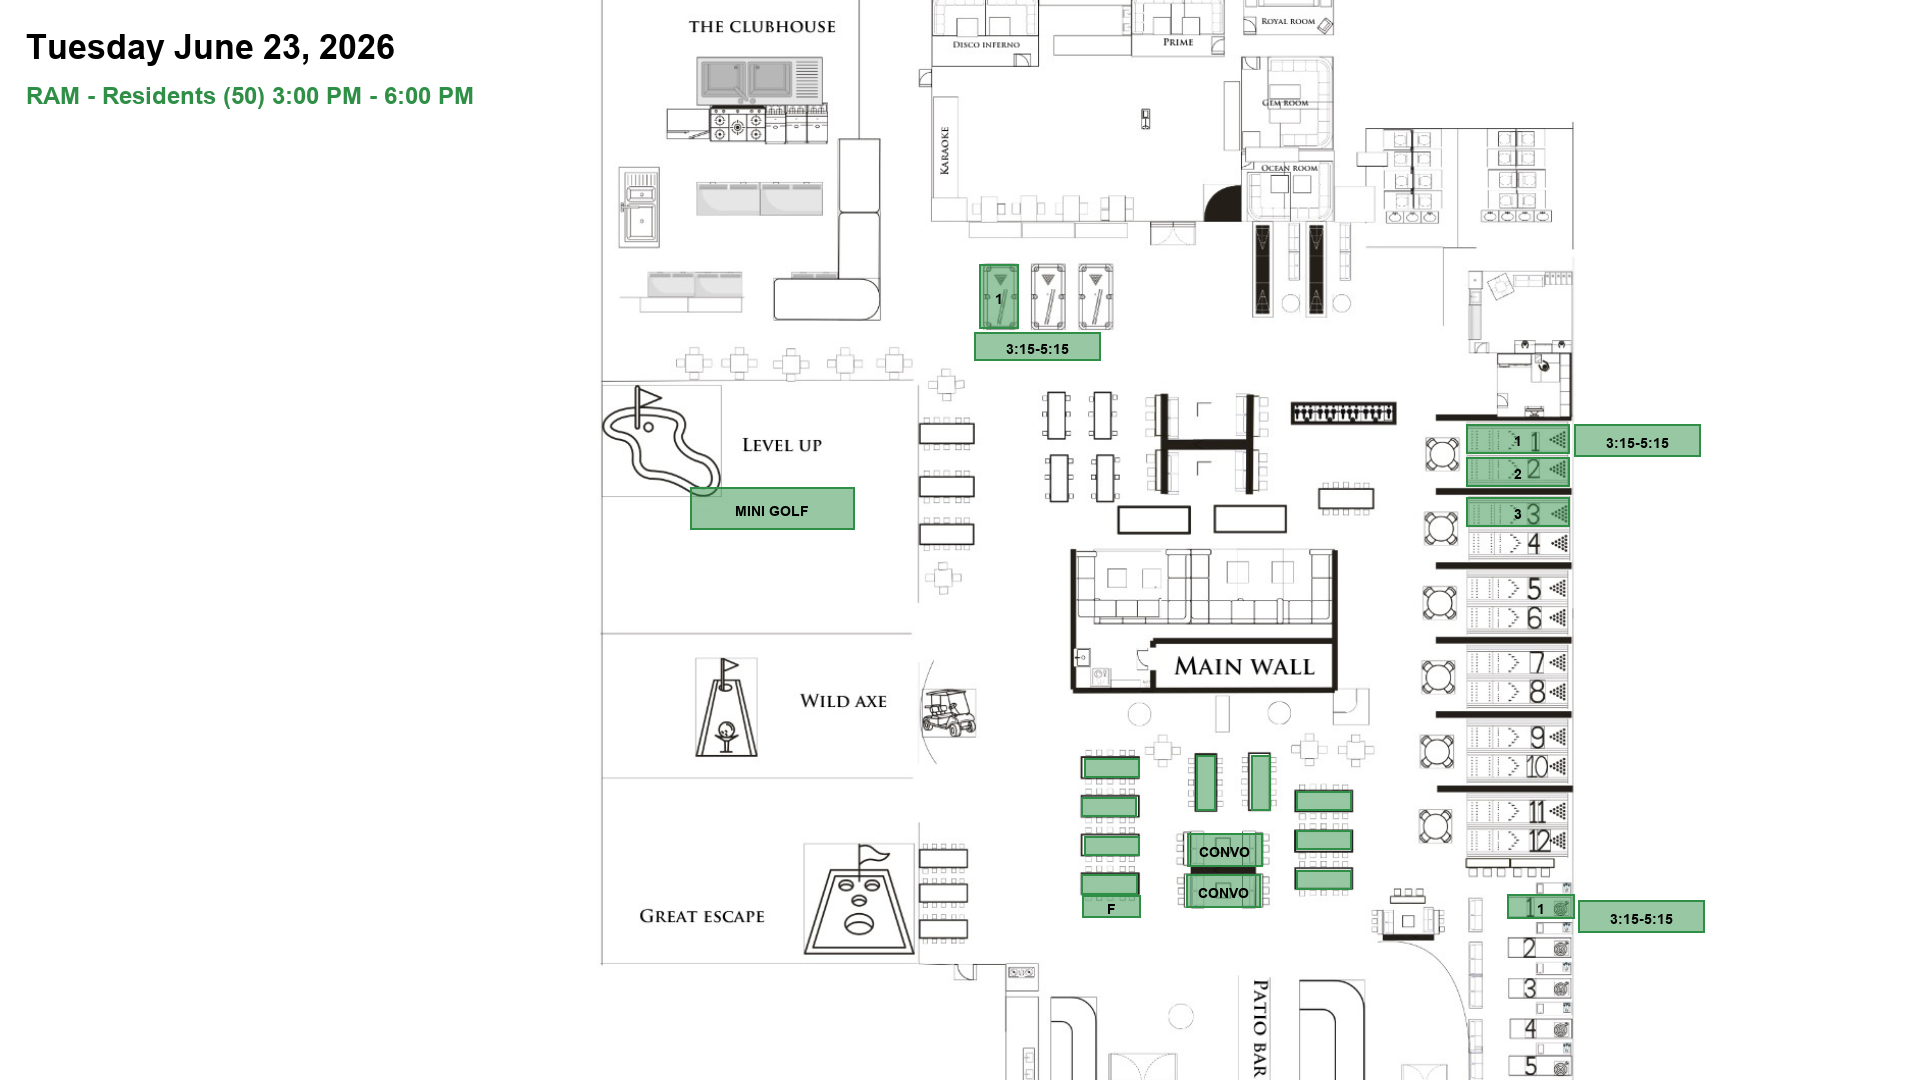
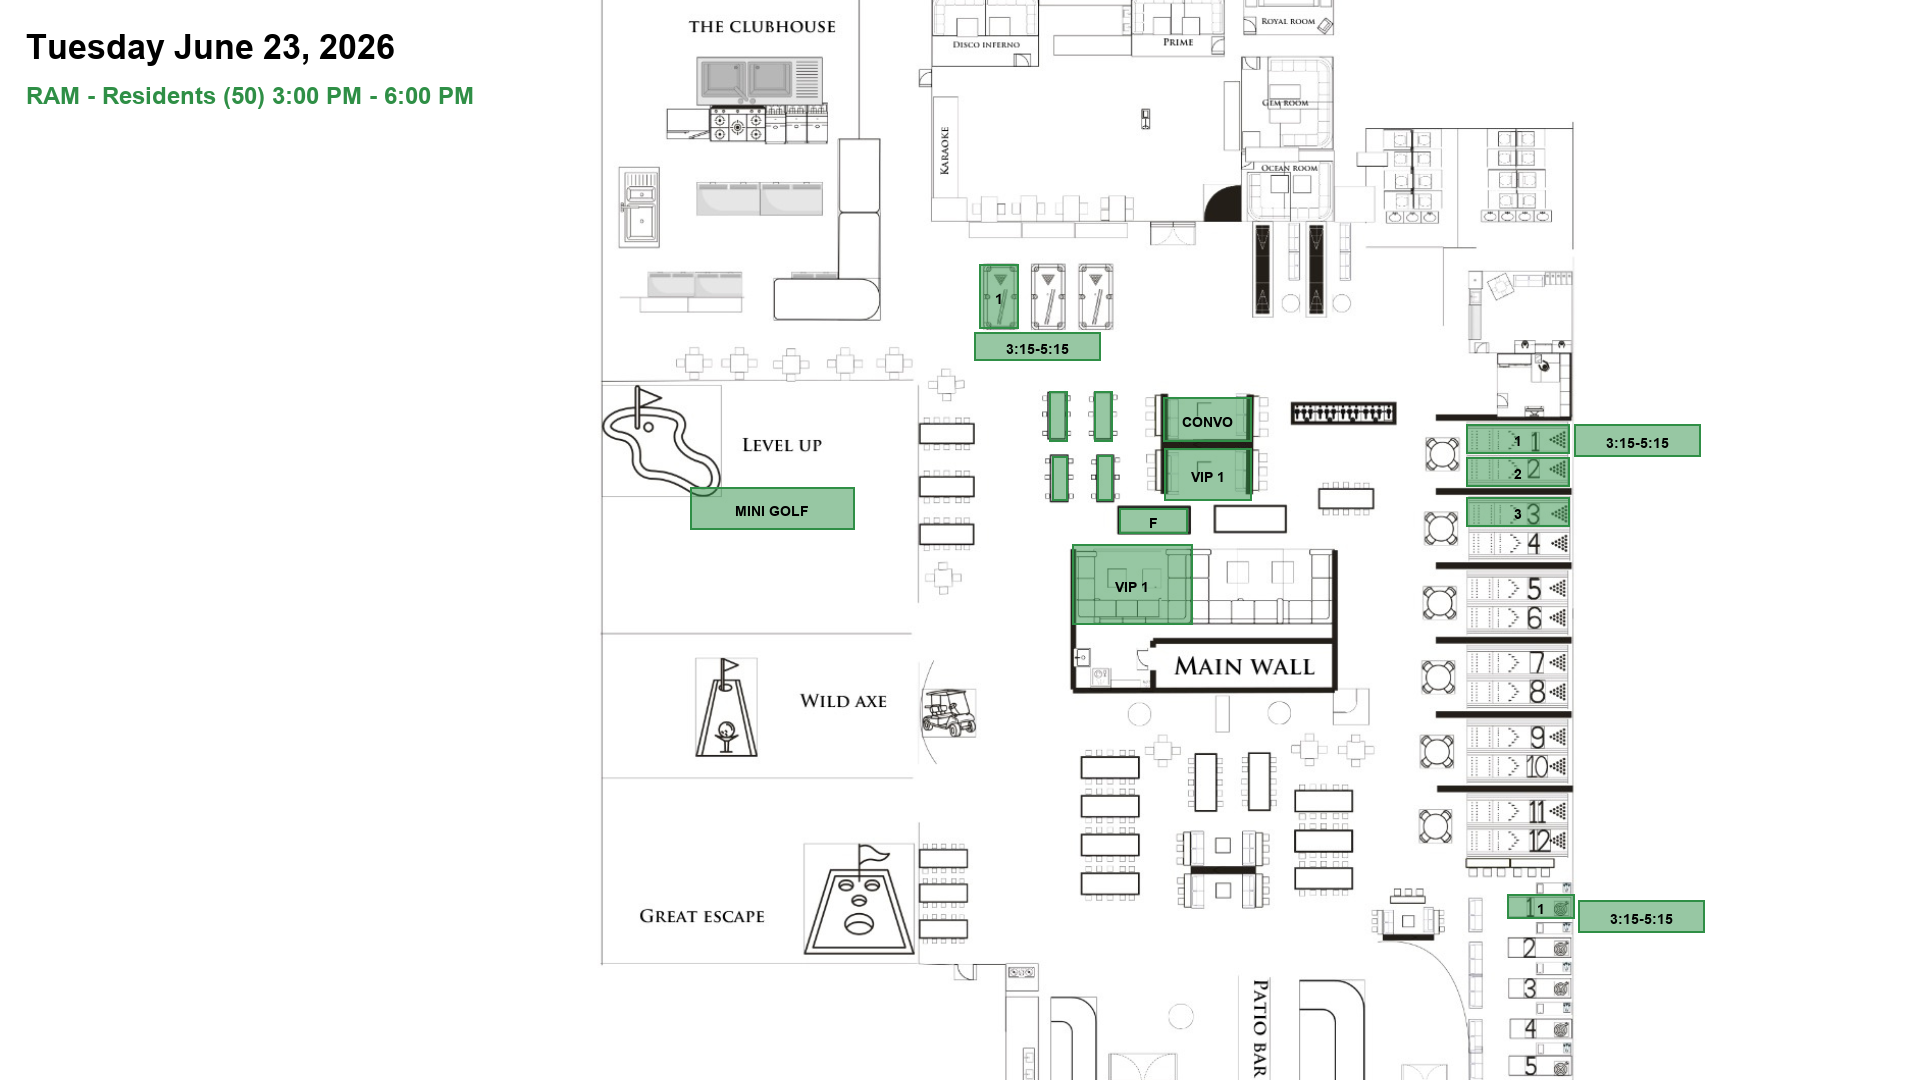
Move RAM June 23 floor plan to VIP 1

Changed region(s): [[0.5312, 0.3667, 0.6562, 0.5806], [0.5625, 0.7028, 0.7188, 0.8556]]

diff --git a/docs/on-par-events-knowledge-base.md b/docs/on-par-events-knowledge-base.md
@@ -822,7 +822,7 @@ This matrix summarizes the current deployable event data. Always re-check Triple
 
 - Date/time: Tuesday, June 23, 2026, 3:00 PM - 6:00 PM
 - Guests: 50
-- Area: Main Dining Room
+- Area: VIP 1
 - Food:
   - Wing Platter
   - Veggie Tray
@@ -835,8 +835,8 @@ This matrix summarizes the current deployable event data. Always re-check Triple
   - Pool Table, 1 table, 3:15 PM - 5:15 PM, 2 hours
   - Mini Golf, 33 guests, untimed, 9 holes
 - Floor-plan interpretation:
-  - Highlight Main Dining Room seating.
-  - Mark 1 main food table.
+  - Highlight VIP 1 full support seating.
+  - Mark VIP food table.
   - Highlight bowling lanes 1-3, darts lane 1, and pool table 1 with `3:15-5:15` labels.
   - Mark mini golf only as needed; do not assign a time unless provided.
 - Verification: BEO checked above billing section.
